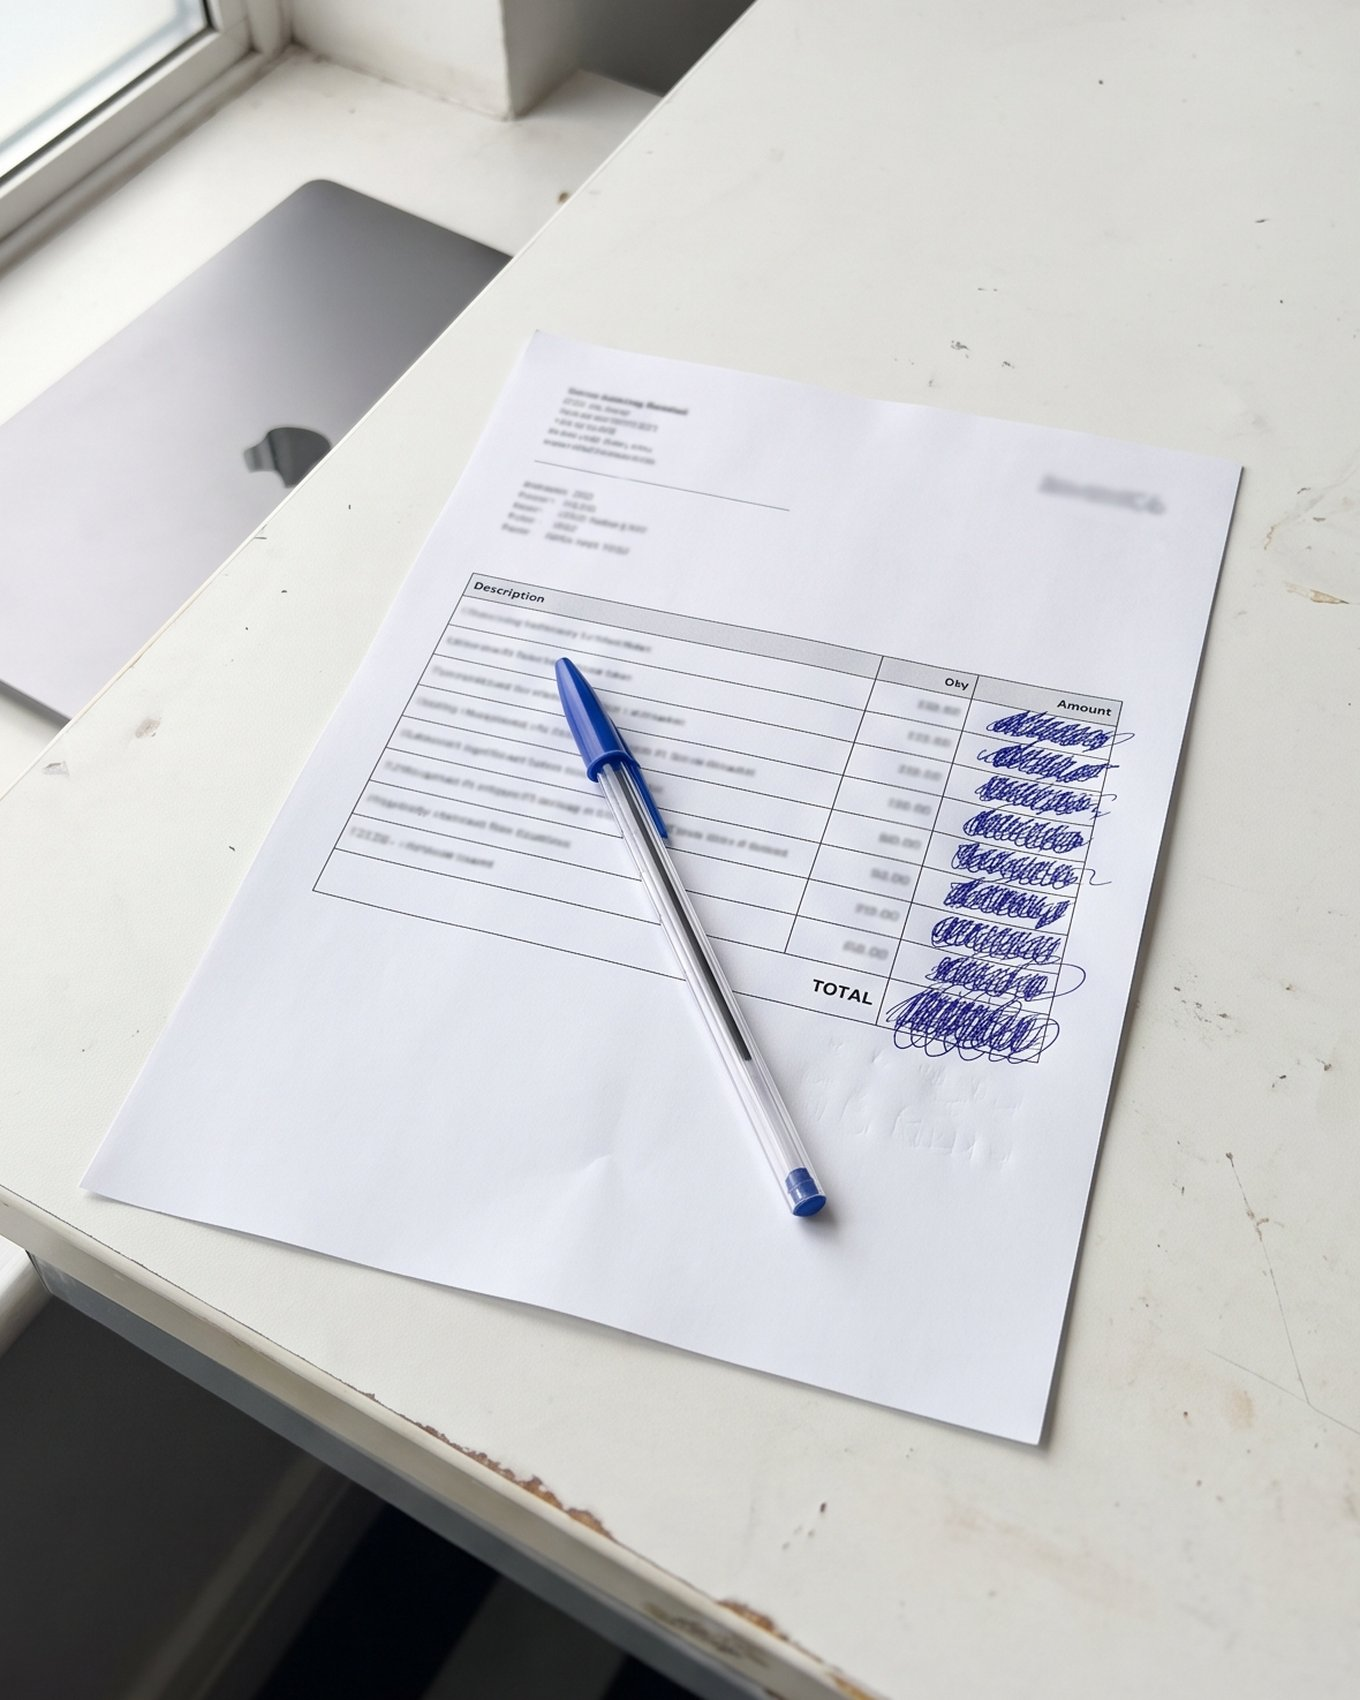
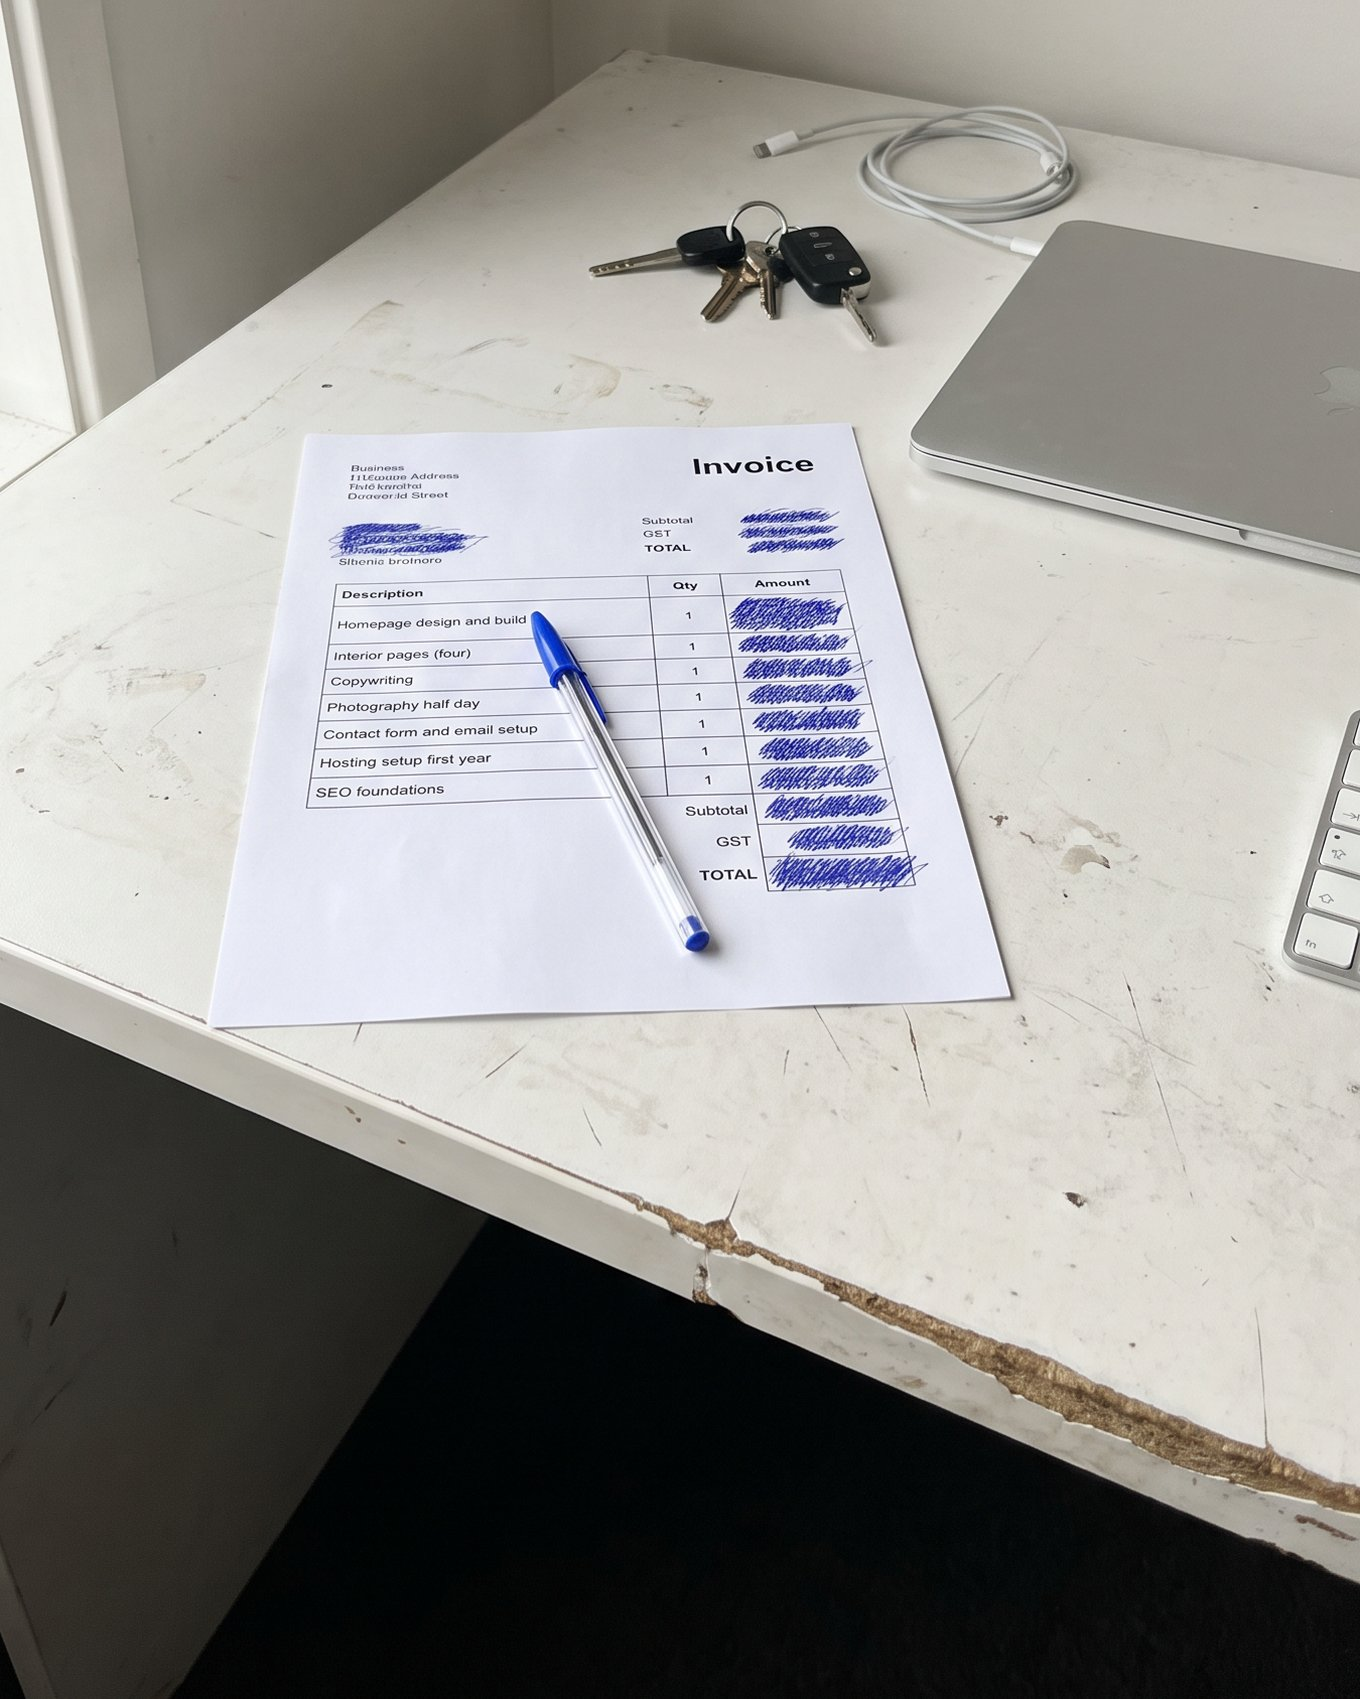
fix(insights): article image — invoice with the amounts scribbled out
Legible line items (homepage build, interior pages, copywriting, photography,
contact form, hosting, SEO foundations), every figure in the Amount column
plus Subtotal, GST and TOTAL scribbled through in blue biro. Plain wall
behind rather than a second desk surface.

Matches the desk photo that already passed: white laminate with real grime
and a chipped edge, MacBook, keys, coiled charger, keyboard edge, flat window
daylight, handheld from standing.

diff --git a/src/content/seo/pages/why-web-designers-hide-their-prices.js b/src/content/seo/pages/why-web-designers-hide-their-prices.js
@@ -32,9 +32,9 @@ export default {
       kind: 'image',
       src: '/insights/why-web-designers-hide-their-prices.jpg',
       width: 1360,
-      height: 1700,
-      alt: 'A printed invoice on a desk with every figure in the amount column scribbled out in blue biro. The pen is lying across the page.',
-      caption: 'Every line, and the total. This is the version of the conversation most people get.',
+      height: 1699,
+      alt: 'A printed invoice on an office desk. Every line item is readable but every figure in the amount column, and the total, has been scribbled out in blue biro.',
+      caption: 'You can read every line. Just not what any of it costs.'
     },
 
     {
